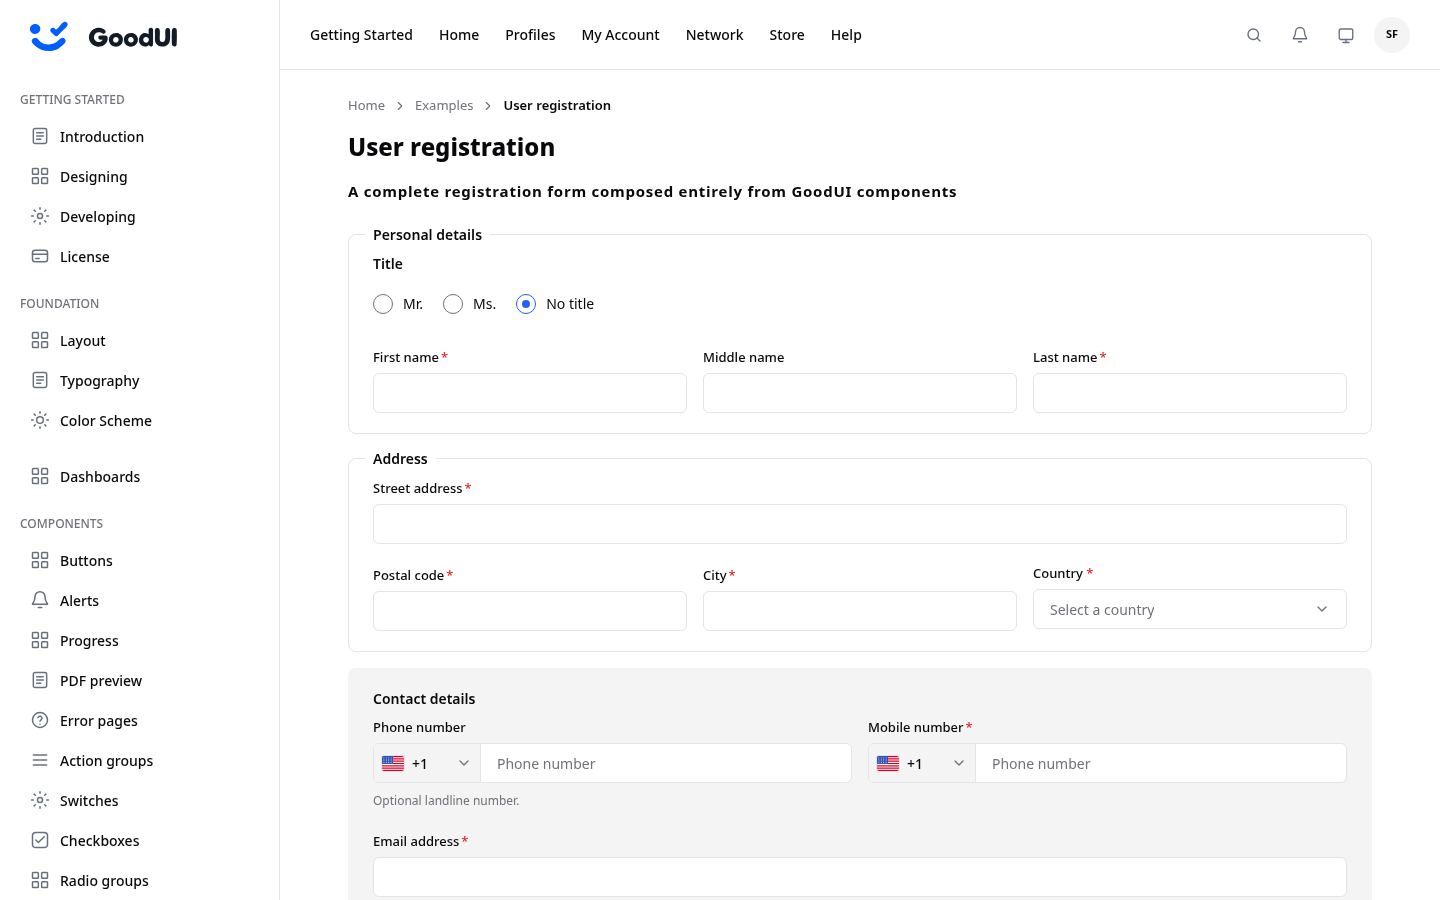
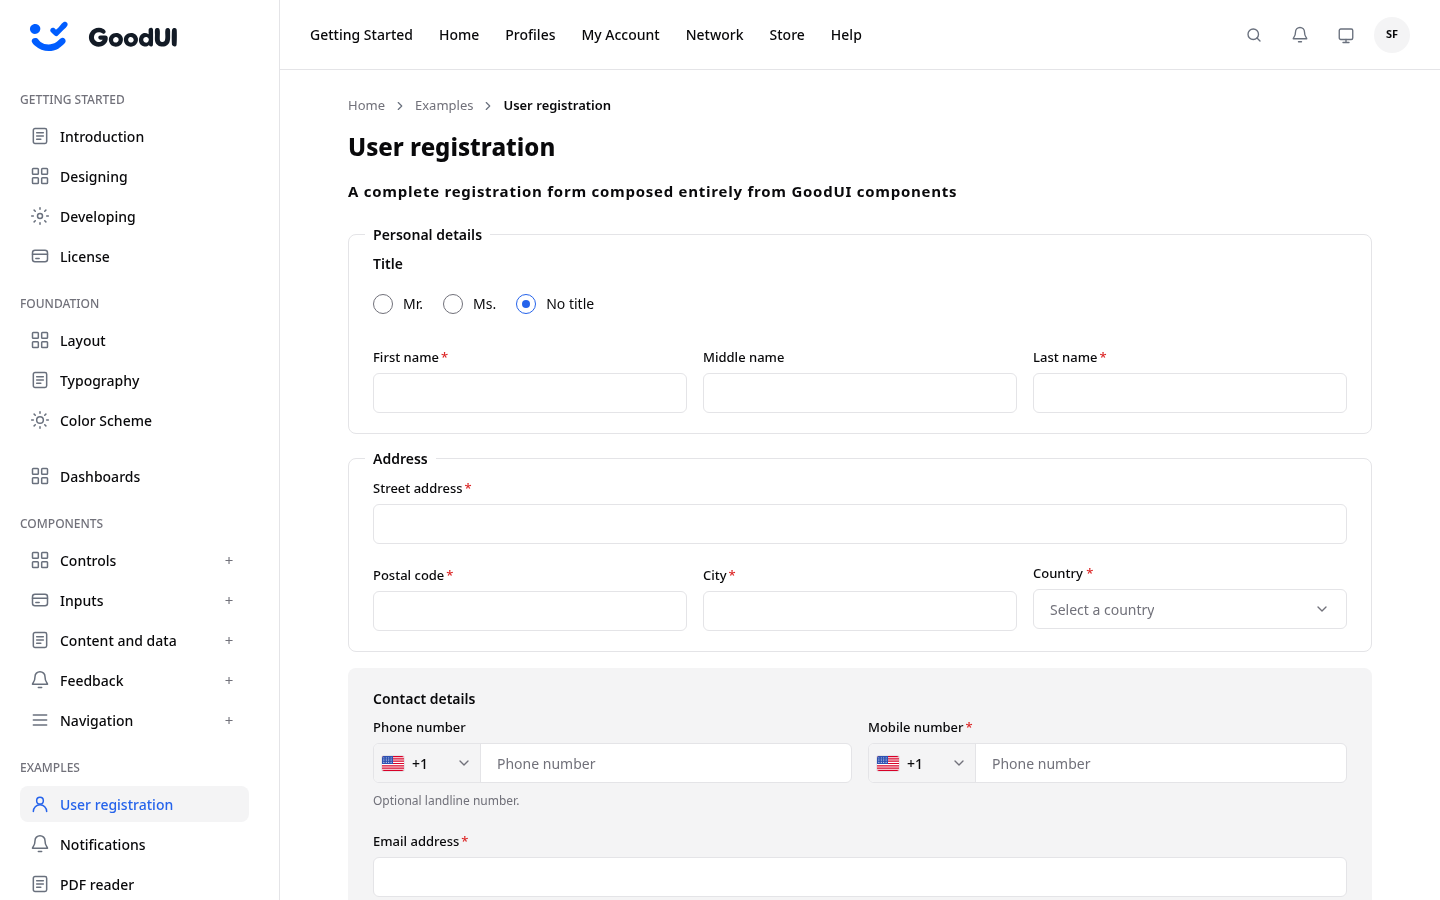
feat: group component navigation in the sidebar
Organize the homepage component catalog into expandable categories while preserving all routes. Document the hierarchy and refresh the layout screenshot.

diff --git a/homepage/src/app/app.ts b/homepage/src/app/app.ts
@@ -61,38 +61,48 @@ export class App {
     ] },
     { id: 'dashboards', items: [{ id: 'dashboard', label: 'Dashboards', icon: 'dashboard', route: '/dashboard' }] },
     { id: 'components', heading: 'COMPONENTS', items: [
-      { id: 'buttons', label: 'Buttons', icon: 'grid', route: '/components/buttons' },
-      { id: 'alerts', label: 'Alerts', icon: 'bell', route: '/components/alerts' },
-      { id: 'progress', label: 'Progress', icon: 'grid', route: '/components/progress' },
-      { id: 'pdf-preview', label: 'PDF preview', icon: 'book', route: '/components/pdf-preview' },
-      { id: 'error-pages', label: 'Error pages', icon: 'question', route: '/components/error-pages' },
-      { id: 'action-groups', label: 'Action groups', icon: 'menu', route: '/components/action-groups' },
-      { id: 'switches', label: 'Switches', icon: 'settings', route: '/components/switches' },
-      { id: 'checkboxes', label: 'Checkboxes', icon: 'check', route: '/components/checkboxes' },
-      { id: 'radio-groups', label: 'Radio groups', icon: 'grid', route: '/components/radio-groups' },
-      { id: 'ratings', label: 'Ratings', icon: 'star', route: '/components/ratings' },
-      { id: 'tables', label: 'Tables', icon: 'grid', route: '/components/tables' },
-      { id: 'cards', label: 'Cards', icon: 'card', route: '/components/cards' },
-      { id: 'groups', label: 'Groups', icon: 'grid', route: '/components/groups' },
-      { id: 'links', label: 'Links', icon: 'globe', route: '/components/links' },
-      { id: 'code-blocks', label: 'Code blocks', icon: 'book', route: '/components/code-blocks' },
-      { id: 'modals', label: 'Modals', icon: 'grid', route: '/components/modals' },
-      { id: 'inputs', label: 'Inputs', icon: 'grid', route: '/components/inputs' },
-      { id: 'number-inputs', label: 'Number inputs', icon: 'grid', route: '/components/number-inputs' },
-      { id: 'pin-inputs', label: 'PIN inputs', icon: 'grid', route: '/components/pin-inputs' },
-      { id: 'selects', label: 'Selects', icon: 'chevron-right', route: '/components/selects' },
-      { id: 'listboxes', label: 'Listboxes', icon: 'menu', route: '/components/listboxes' },
-      { id: 'phone-inputs', label: 'Phone inputs', icon: 'contact', route: '/components/phone-inputs' },
-      { id: 'date-inputs', label: 'Date inputs', icon: 'grid', route: '/components/date-inputs' },
-      { id: 'calendar', label: 'Calendar', icon: 'calendar', route: '/components/calendar' },
-      { id: 'image-inputs', label: 'Image inputs', icon: 'grid', route: '/components/image-inputs' },
-      { id: 'labels', label: 'Forms and labels', icon: 'book', route: '/components/labels' },
-      { id: 'dropdowns', label: 'Dropdowns', icon: 'menu', route: '/components/dropdowns' },
-      { id: 'breadcrumbs', label: 'Breadcrumbs', icon: 'chevron-right', route: '/components/breadcrumbs' },
-      { id: 'badges', label: 'Badges', icon: 'star', route: '/components/badges' },
-      { id: 'topbar-menu', label: 'Topbar menu', icon: 'menu', route: '/components/topbar-menu' },
-      { id: 'theme-toggle', label: 'Theme toggle', icon: 'sun', route: '/components/theme-toggle' },
-      { id: 'topbar-submenu', label: 'Topbar submenu', icon: 'chevron-right', route: '/components/topbar-submenu' },
+      { id: 'controls-category', label: 'Controls', icon: 'grid', children: [
+        { id: 'buttons', label: 'Buttons', route: '/components/buttons' },
+        { id: 'action-groups', label: 'Action groups', route: '/components/action-groups' },
+        { id: 'switches', label: 'Switches', route: '/components/switches' },
+        { id: 'checkboxes', label: 'Checkboxes', route: '/components/checkboxes' },
+        { id: 'radio-groups', label: 'Radio groups', route: '/components/radio-groups' },
+        { id: 'ratings', label: 'Ratings', route: '/components/ratings' },
+        { id: 'theme-toggle', label: 'Theme toggle', route: '/components/theme-toggle' },
+      ] },
+      { id: 'inputs-category', label: 'Inputs', icon: 'card', children: [
+        { id: 'inputs', label: 'Text and file', route: '/components/inputs' },
+        { id: 'number-inputs', label: 'Number inputs', route: '/components/number-inputs' },
+        { id: 'pin-inputs', label: 'PIN inputs', route: '/components/pin-inputs' },
+        { id: 'phone-inputs', label: 'Phone inputs', route: '/components/phone-inputs' },
+        { id: 'date-inputs', label: 'Date inputs', route: '/components/date-inputs' },
+        { id: 'image-inputs', label: 'Image inputs', route: '/components/image-inputs' },
+        { id: 'selects', label: 'Selects', route: '/components/selects' },
+        { id: 'listboxes', label: 'Listboxes', route: '/components/listboxes' },
+        { id: 'labels', label: 'Forms and labels', route: '/components/labels' },
+      ] },
+      { id: 'content-category', label: 'Content and data', icon: 'book', children: [
+        { id: 'tables', label: 'Tables', route: '/components/tables' },
+        { id: 'cards', label: 'Cards', route: '/components/cards' },
+        { id: 'groups', label: 'Groups', route: '/components/groups' },
+        { id: 'links', label: 'Links', route: '/components/links' },
+        { id: 'badges', label: 'Badges', route: '/components/badges' },
+        { id: 'code-blocks', label: 'Code blocks', route: '/components/code-blocks' },
+        { id: 'pdf-preview', label: 'PDF preview', route: '/components/pdf-preview' },
+        { id: 'calendar', label: 'Calendar', route: '/components/calendar' },
+      ] },
+      { id: 'feedback-category', label: 'Feedback', icon: 'bell', children: [
+        { id: 'alerts', label: 'Alerts', route: '/components/alerts' },
+        { id: 'progress', label: 'Progress', route: '/components/progress' },
+        { id: 'modals', label: 'Modals', route: '/components/modals' },
+        { id: 'error-pages', label: 'Error pages', route: '/components/error-pages' },
+      ] },
+      { id: 'navigation-category', label: 'Navigation', icon: 'menu', children: [
+        { id: 'dropdowns', label: 'Dropdowns', route: '/components/dropdowns' },
+        { id: 'breadcrumbs', label: 'Breadcrumbs', route: '/components/breadcrumbs' },
+        { id: 'topbar-menu', label: 'Topbar menu', route: '/components/topbar-menu' },
+        { id: 'topbar-submenu', label: 'Topbar submenu', route: '/components/topbar-submenu' },
+      ] },
     ] },
     { id: 'examples', heading: 'EXAMPLES', items: [
       { id: 'user-registration', label: 'User registration', icon: 'account', route: '/examples/user-registration' },

diff --git a/homepage/src/app/getting-started/layout.html b/homepage/src/app/getting-started/layout.html
@@ -15,6 +15,7 @@
     <good-subheading>The shell around this page</good-subheading>
     <good-prose>
       <good-paragraph>This documentation page runs inside <code>good-app-layout</code>. On desktop, it places a 280 px sidebar beside the topbar and page area. At 900 px and below, the sidebar becomes a drawer and the topbar becomes 60 px tall. The shell owns offsets, scrolling, the drawer backdrop, and focus restoration.</good-paragraph>
+      <good-paragraph>For a large catalog, group related pages under expandable sidebar items. Child links use a smaller row style, and the active page opens its parent automatically. The same hierarchy appears in the mobile drawer.</good-paragraph>
       <good-paragraph>Put the shell once in your root component. Route components render inside its <code>&lt;router-outlet /&gt;</code>; each page can use <code>good-main-view</code> for its heading and content padding. The navigation data supplies labels and routes, and the active item follows Angular Router.</good-paragraph>
     </good-prose>
     <good-inline-image src="/foundation/layout-anatomy.svg" style="--good-typography-image-max-width: 100%"

diff --git a/guides/components/sidebar.md b/guides/components/sidebar.md
@@ -26,4 +26,22 @@ The homepage's Account / Get Started navigation shows two expansion levels. Good
 
 For most apps, `good-app-layout` builds the same structure from `sidebarSections`. A section has `id`, optional `heading`, and `items`. Each item has `id`, `label`, and optional `icon`, `badge`, `disabled`, `route`, or recursive `children`. GoodUI calculates spacing, indentation, guide lines, and scroll height.
 
+For a large catalog, use a small number of named parents instead of placing every page directly under the section heading. The homepage groups its component pages under Controls, Inputs, Content and data, Feedback, and Navigation. For example:
+
+```ts
+import { type GoodSidebarSection } from '@goodui/angular';
+
+readonly navigation: readonly GoodSidebarSection[] = [
+  { id: 'components', heading: 'COMPONENTS', items: [
+    { id: 'inputs-category', label: 'Inputs', icon: 'card', children: [
+      { id: 'text-inputs', label: 'Text and file', route: '/components/inputs' },
+      { id: 'number-inputs', label: 'Number inputs', route: '/components/number-inputs' },
+      { id: 'date-inputs', label: 'Date inputs', route: '/components/date-inputs' },
+    ] },
+  ] },
+];
+```
+
+The parent is an expandable button; its smaller child rows are links. Keep routes on the leaves so the active route opens its parent automatically. The same hierarchy works in the mobile drawer.
+
 Parents and nested groups are buttons with `aria-expanded` and `aria-controls`; only leaf nodes are links. Enter and Space expand groups, and Tab follows the visible menu order. Hidden children cannot receive focus. An active link gets `aria-current="page"`, and its ancestors open when its route loads. One group per level can be open; clicking it again closes it. Long nested menus remain independently scrollable in the mobile drawer.
